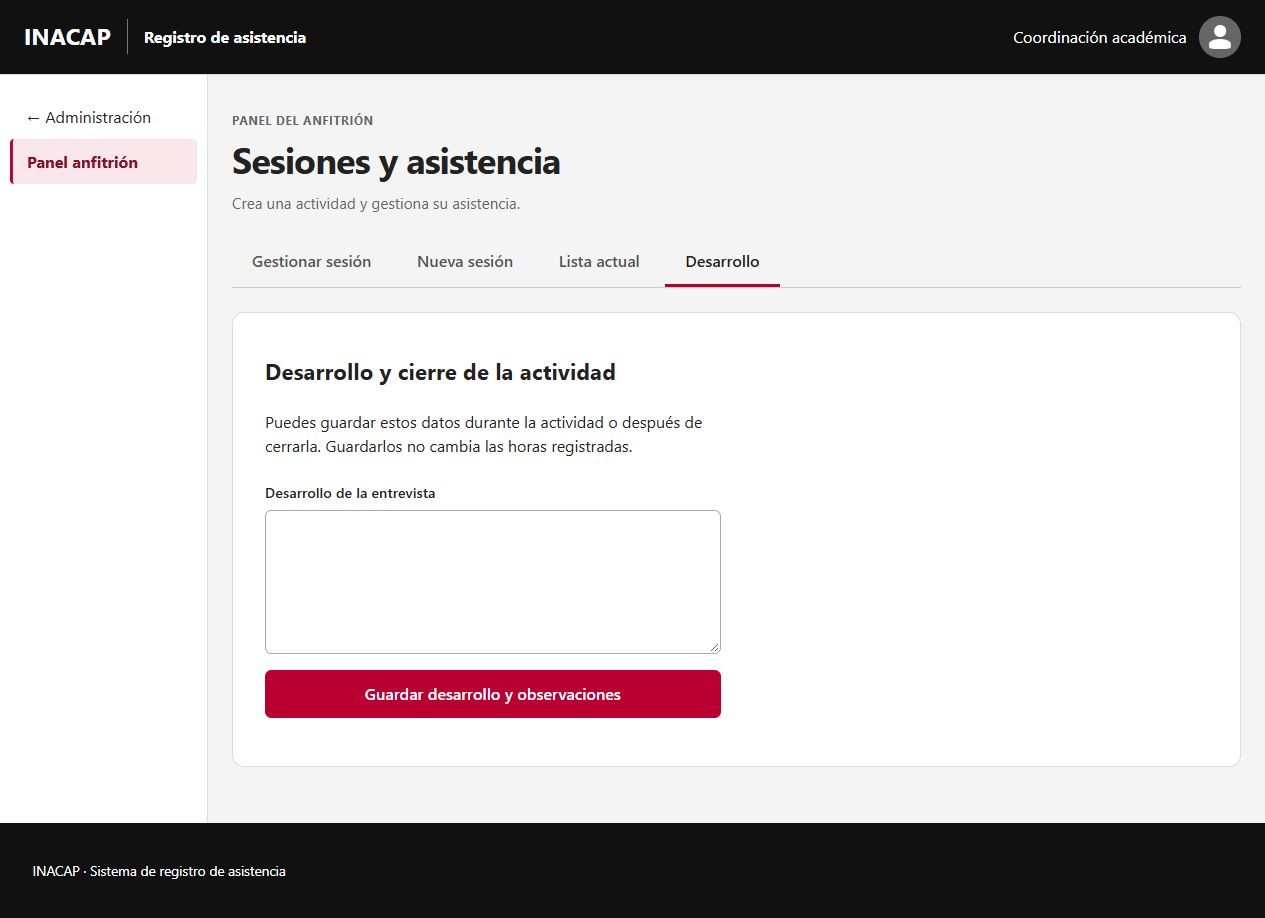
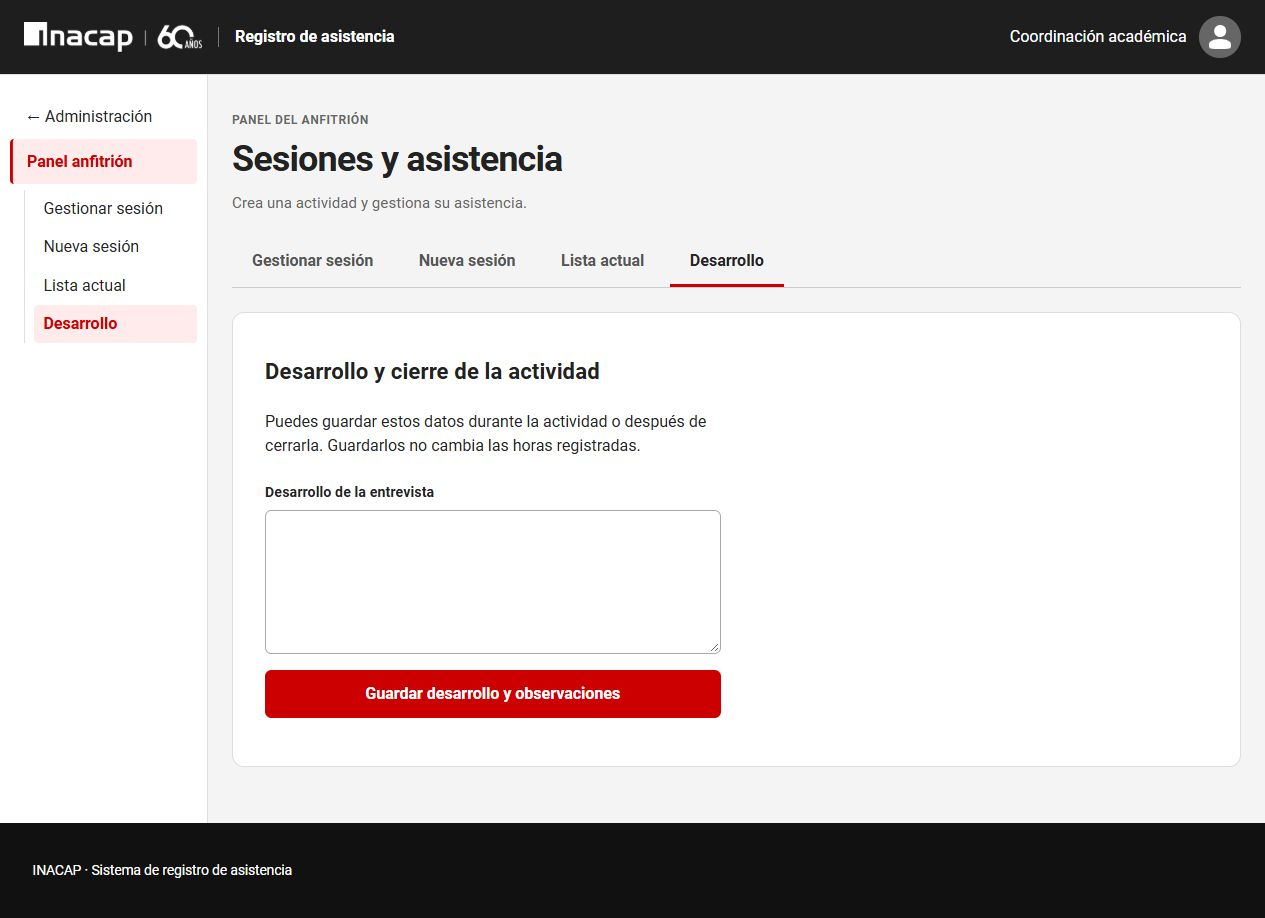
Actualiza las capturas y la demo de asistencia

diff --git a/docs/propuesta-asistencia/estilos.css b/docs/propuesta-asistencia/estilos.css
@@ -1,11 +1,13 @@
-:root{font:15px/1.45 "Segoe UI",Arial,sans-serif;color:#242424;background:#f5f5f5;--red:#b90030;--line:#dedede}
+@import url("../../static/css/roboto.css");
+
+:root{font:15px/1.45 Roboto,system-ui,sans-serif;color:#242424;background:#f5f5f5;--red:#cc0000;--line:#dedede}
 *{box-sizing:border-box}body{margin:0;min-height:100vh;display:flex;flex-direction:column}
 header,footer{background:#111;color:white;padding:14px 25px;display:flex;align-items:center;gap:22px}
 header strong{font-size:24px;letter-spacing:1px;border-right:1px solid #777;padding-right:22px}header .demo,footer span{margin-left:auto;color:#ddd}footer{font-size:13px}
-.layout{flex:1;display:grid;grid-template-columns:210px minmax(0,1fr)}nav{background:#fff;border-right:1px solid var(--line);padding:28px 10px}nav button{width:100%;text-align:left;border:0;margin:2px 0;border-left:3px solid transparent}nav button.active{background:#f9e7ec;border-left-color:var(--red);color:#851027}
+.layout{flex:1;display:grid;grid-template-columns:210px minmax(0,1fr)}nav{background:#fff;border-right:1px solid var(--line);padding:28px 10px}nav button{width:100%;text-align:left;border:0;margin:2px 0;border-left:3px solid transparent}nav button.active{background:#ffebeb;border-left-color:var(--red);color:#cc0000}
 main{padding:28px clamp(16px,3vw,42px);width:100%;max-width:1450px;margin:auto auto 0;align-self:start;margin-top:0}.crumb{color:#5e5e5e;font-size:13px;margin:0 0 12px}h1,h2,h3{line-height:1.2;margin:0 0 10px}h1{font-size:34px}h2{font-size:21px}p{margin:0 0 16px;color:#505050}
 .heading,.toolbar,.tabs,.actions{display:flex;align-items:center;gap:10px;flex-wrap:wrap}.heading{justify-content:space-between;margin-bottom:12px}.heading p{margin-bottom:0}.toolbar{justify-content:space-between;padding:13px 16px}.tabs{border-bottom:1px solid var(--line);margin-bottom:18px;gap:18px}.tabs button{background:transparent;border:0;border-radius:0;border-bottom:3px solid transparent;padding:12px 5px}.tabs .active{border-bottom-color:var(--red);font-weight:650}
-button,input,select,textarea{font:inherit}button,.button{cursor:pointer;background:white;color:#252525;border:1px solid #c7c7c7;border-radius:5px;padding:9px 13px;text-decoration:none;display:inline-block}button:hover,.button:hover{background:#f0f0f0}button.primary{background:var(--red);border-color:var(--red);color:white;font-weight:600}button.primary:hover{background:#970028}button:disabled{opacity:.55;cursor:default}button:focus-visible,a:focus-visible{outline:3px solid #b90030;outline-offset:2px}
+button,input,select,textarea{font:inherit}button,.button{cursor:pointer;background:white;color:#252525;border:1px solid #c7c7c7;border-radius:5px;padding:9px 13px;text-decoration:none;display:inline-block}button:hover,.button:hover{background:#f0f0f0}button.primary{background:var(--red);border-color:var(--red);color:white;font-weight:600}button.primary:hover{background:#a30000}button:disabled{opacity:.55;cursor:default}button:focus-visible,a:focus-visible{outline:3px solid #cc0000;outline-offset:2px}
 .card{background:#fff;border:1px solid var(--line);border-radius:7px;margin:0 0 17px;padding:19px}.table-card{padding:0;overflow:hidden}.table-wrap{overflow:auto}table{width:100%;border-collapse:collapse;text-align:left;white-space:nowrap}th,td{padding:12px 15px;border-bottom:1px solid #eee}th{background:#f3f3f3;font-size:13px}tbody tr:last-child td{border-bottom:0}.link{border:0;padding:0;color:#93002b;background:transparent;font-weight:600;text-decoration:underline}.tag{display:inline-block;background:#eee;padding:3px 9px;border-radius:16px;font-size:13px}.tag.red{background:#fae0e7;color:#860022}.tag.green{background:#e9eee9;color:#24502c}
 .fields{display:grid;grid-template-columns:repeat(2,minmax(0,1fr));gap:14px;margin:12px 0 16px}.filter-grid{grid-template-columns:repeat(4,minmax(0,1fr))}.wide{grid-column:1/-1}label{display:block;font-weight:600;font-size:14px}input:not([type=checkbox]),select,textarea{display:block;width:100%;padding:9px 10px;border:1px solid #bcbcbc;border-radius:4px;background:white;color:#242424;margin-top:4px}textarea{min-height:94px;resize:vertical}dl{display:grid;grid-template-columns:repeat(2,minmax(0,1fr));gap:15px}dt{color:#646464;font-size:13px}dd{margin:2px 0 0}.split{display:grid;grid-template-columns:2fr 1fr;gap:16px}.qr{text-align:center}.qr img{display:block;width:158px;margin:14px auto}.public{max-width:490px;margin:10px auto}.public .fields{grid-template-columns:1fr}.signature{width:100%;height:150px;display:block;border:1px dashed #999;background:#fff;touch-action:none;margin:8px 0}.hint{font-size:13px;color:#646464}.notice{min-height:1em;margin-top:10px;color:#454545}.check{display:flex;align-items:center;gap:8px;margin:9px 0}dialog{width:min(560px,94vw);border:1px solid var(--line);border-radius:8px;padding:23px}dialog::backdrop{background:#0006}.afiche{display:none}
 @media(max-width:850px){.layout{display:block}nav{display:flex;flex-wrap:wrap;padding:7px;border-bottom:1px solid var(--line)}nav button{width:auto}.filter-grid{grid-template-columns:repeat(2,minmax(0,1fr))}}
@@ -85,4 +87,20 @@ button,input,select,textarea{font:inherit}button,.button{cursor:pointer;backgrou
     width: 20px;
     height: 9px;
     border-radius: 50% 50% 25% 25%;
+}
+
+header {
+    background: #1e1e1e;
+    flex-wrap: wrap;
+}
+
+.demo-logo {
+    width: clamp(110px, 23vw, 178px);
+    height: auto;
+}
+
+.demo-logo + span {
+    border-left: 1px solid #777;
+    padding-left: 16px;
+    font-weight: 700;
 }

diff --git a/docs/capturas/GALERIA.html b/docs/capturas/GALERIA.html
@@ -23,7 +23,8 @@ figcaption{padding:.75rem 1rem;font-weight:600}
 <p>Selecciona una captura para verla a tamaño completo.</p>
 <section id="version-1"><h2>Versión actual</h2><div class="grid">
 <figure><a href="actual-ingreso.jpg"><img loading="lazy" src="actual-ingreso.jpg" alt="Iniciar sesión"></a><figcaption>Iniciar sesión</figcaption></figure>
-<figure><a href="actual-administracion.jpg"><img loading="lazy" src="actual-administracion.jpg" alt="Administración · Sesiones y exportación"></a><figcaption>Administración · Sesiones y exportación</figcaption></figure>
+<figure><a href="actual-administracion-en-curso.jpg"><img loading="lazy" src="actual-administracion-en-curso.jpg" alt="Administración · Sesiones en curso"></a><figcaption>Administración · Sesiones en curso</figcaption></figure>
+<figure><a href="actual-administracion.jpg"><img loading="lazy" src="actual-administracion.jpg" alt="Administración · Buscar sesiones y exportar"></a><figcaption>Administración · Buscar sesiones y exportar</figcaption></figure>
 <figure><a href="actual-administracion-detalle.jpg"><img loading="lazy" src="actual-administracion-detalle.jpg" alt="Administración · Detalle de asistencia"></a><figcaption>Administración · Detalle de asistencia</figcaption></figure>
 <figure><a href="actual-anfitrion-nueva.jpg"><img loading="lazy" src="actual-anfitrion-nueva.jpg" alt="Anfitrión · Nueva sesión"></a><figcaption>Anfitrión · Nueva sesión</figcaption></figure>
 <figure><a href="actual-anfitrion-gestionar.jpg"><img loading="lazy" src="actual-anfitrion-gestionar.jpg" alt="Anfitrión · Gestionar sesión y QR"></a><figcaption>Anfitrión · Gestionar sesión y QR</figcaption></figure>

diff --git a/docs/propuesta-asistencia/index.html b/docs/propuesta-asistencia/index.html
@@ -5,7 +5,7 @@
 <title>INACAP · Registro de asistencia</title>
 <link rel="stylesheet" href="estilos.css">
 <header>
-  <strong>INACAP</strong><span>Registro de asistencia</span>
+  <img class="demo-logo" src="../../static/img/inacap-60.png" alt="INACAP · 60 años" width="655" height="109"><span>Registro de asistencia</span>
   <label class="demo">Cuenta de demostración<select id="account"></select><span id="accountRole"></span></label>
   <button class="account-avatar" data-view="account" aria-label="Mi cuenta" title="Mi cuenta"><span aria-hidden="true"></span></button>
 </header>

diff --git a/README.md b/README.md
@@ -2,6 +2,8 @@
 
 Aplicación web Django para anfitriones, asistentes y administración. Los asistentes se registran mediante un QR y firman desde su propio dispositivo. Los registros de cada actividad se pueden consultar y exportar. Las capturas de la interfaz están en [la galería](docs/capturas/GALERIA.html).
 
+La galería conserva las capturas de la primera versión y muestra la interfaz actual con Roboto, el logo de INACAP y las vistas de sesiones en curso y búsqueda. La [demo interactiva](docs/propuesta-asistencia/index.html) usa datos ficticios e incluye la propuesta de roles y permisos.
+
 ## Primer uso en este computador
 
 1. Desde la carpeta del proyecto ejecuta `./INICIAR_LOCAL.ps1` en PowerShell.
